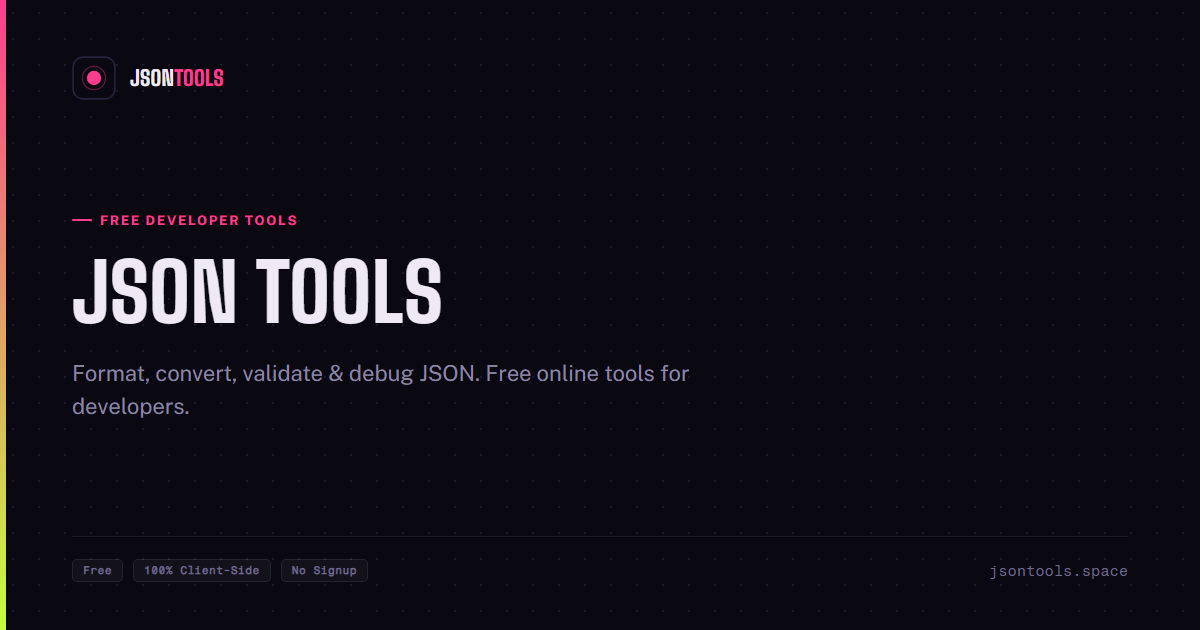
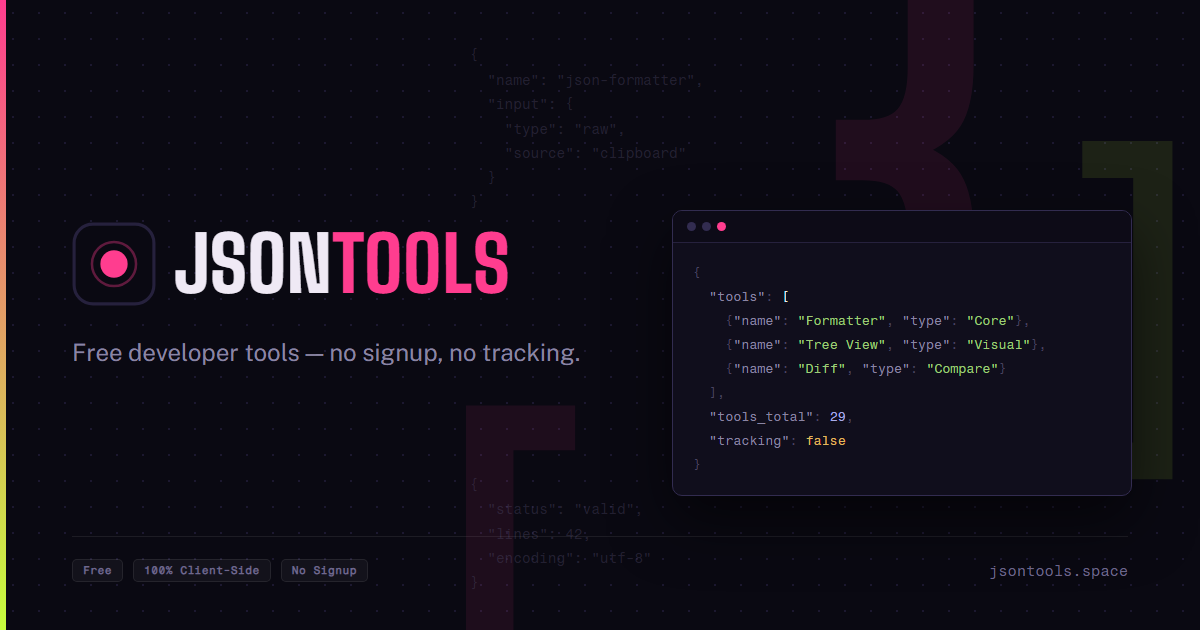
feat: richer flagship OG image with editor mockup + brand identity
Redesigned the default/homepage OG image (public/og/og-image.png),
modeled after a reference composition the user made: a floating
code-editor window with real syntax-highlighted JSON, giant faint
bracket typography as background depth, and JSON snippets as texture.

Applied our own identity throughout: the actual LogoMark, Big
Shoulders / Public Sans / Fragment Mono, the magenta/lime accent
gradient, and the exact syntax-highlight colors our own JsonEditor
uses (--type-str/num/bool) so the mockup matches the real product.

New dedicated template + generator (og-flagship-template.html,
generate-og-flagship.cjs) since this composition doesn't fit the
per-tool data-driven template. Removed the old simple 'og-image'
entry from generate-og.cjs so a future run of the main script can't
clobber this one.

diff --git a/scripts/og-flagship-template.html b/scripts/og-flagship-template.html
@@ -1,0 +1,165 @@
+<!DOCTYPE html>
+<html>
+<head>
+<meta charset="utf-8">
+<link rel="preconnect" href="https://fonts.googleapis.com">
+<link rel="preconnect" href="https://fonts.gstatic.com" crossorigin>
+<link href="https://fonts.googleapis.com/css2?family=Big+Shoulders:wght@500;700;800&family=Public+Sans:ital,wght@0,400;0,500;0,600;0,700;1,500&family=Fragment+Mono:ital@0;1&display=swap" rel="stylesheet">
+<style>
+* { margin: 0; padding: 0; box-sizing: border-box; }
+body {
+  width: 1200px;
+  height: 630px;
+  background: #0A0912;
+  font-family: 'Public Sans', sans-serif;
+  position: relative;
+  overflow: hidden;
+}
+
+.bg-dots {
+  position: absolute;
+  inset: 0;
+  background-image: radial-gradient(circle, #1c1830 1.5px, transparent 1.5px);
+  background-size: 26px 26px;
+}
+
+/* Giant decorative brackets, low-opacity depth layer */
+.deco {
+  position: absolute;
+  font-family: 'Fragment Mono', monospace;
+  font-weight: 700;
+  color: #FF3D8F;
+  line-height: 1;
+  user-select: none;
+}
+.deco-brace  { top: -160px; right: 60px;  font-size: 620px; opacity: 0.09; }
+.deco-bracket-l { bottom: -210px; left: 360px; font-size: 460px; opacity: 0.08; }
+.deco-bracket-r { top: 120px; right: -60px; font-size: 380px; opacity: 0.1; color: #C6FF3D; }
+
+/* Faint scattered JSON text texture */
+.code-scrap {
+  position: absolute;
+  font-family: 'Fragment Mono', monospace;
+  font-size: 14px;
+  line-height: 1.75;
+  color: #4a4460;
+  opacity: 0.4;
+  white-space: pre;
+}
+.code-scrap--tl { top: 44px; left: 470px; }
+.code-scrap--bl { bottom: 34px; left: 470px; }
+
+.accent-bar {
+  position: absolute;
+  left: 0; top: 0;
+  width: 6px; height: 100%;
+  background: linear-gradient(180deg, #FF3D8F 0%, #C6FF3D 100%);
+}
+
+/* Foreground content */
+.stage { position: relative; z-index: 1; height: 100%; display: flex; flex-direction: column; padding: 56px 72px 48px; }
+
+.hero { flex: 1; display: flex; flex-direction: column; justify-content: center; max-width: 620px; }
+.brand-row { display: flex; align-items: center; gap: 18px; margin-bottom: 28px; }
+.logo-mark { flex-shrink: 0; display: block; }
+.title {
+  font-family: 'Big Shoulders', sans-serif;
+  font-size: 76px;
+  font-weight: 800;
+  text-transform: uppercase;
+  color: #EFE9F5;
+  line-height: 1;
+  letter-spacing: 0.005em;
+}
+.title em { font-style: normal; color: #FF3D8F; }
+.subtitle { font-size: 24px; color: #8b85a3; font-weight: 400; line-height: 1.5; }
+
+.footer { display: flex; align-items: center; justify-content: space-between; border-top: 1px solid rgba(255,255,255,0.08); padding-top: 22px; }
+.footer-badges { display: flex; gap: 10px; }
+.badge { font-size: 11px; font-weight: 600; font-family: 'Fragment Mono', monospace; color: #6f688c; background: rgba(255,255,255,0.04); border: 1px solid rgba(255,255,255,0.08); border-radius: 5px; padding: 4px 10px; letter-spacing: 0.04em; }
+.footer-url { font-size: 15px; color: #6f688c; font-family: 'Fragment Mono', monospace; font-weight: 500; }
+
+/* Floating editor window */
+.window {
+  position: absolute;
+  top: 210px;
+  right: 68px;
+  width: 460px;
+  background: #100e1c;
+  border: 1px solid #322c50;
+  border-radius: 10px;
+  box-shadow: 0 24px 60px rgba(0,0,0,0.55);
+  overflow: hidden;
+  z-index: 2;
+}
+.window-bar { display: flex; align-items: center; gap: 6px; padding: 11px 14px; background: #0d0b17; border-bottom: 1px solid #26213d; }
+.window-dot { width: 9px; height: 9px; border-radius: 50%; background: #322c50; }
+.window-dot--accent { background: #FF3D8F; }
+.window-body { padding: 18px 20px; font-family: 'Fragment Mono', monospace; font-size: 13px; line-height: 1.85; color: #EFE9F5; white-space: pre; }
+.k { color: #8b85a3; }
+.s { color: #9FCB78; }
+.n { color: #A9ACE8; }
+.b { color: #E0B75C; }
+.p { color: #4a4460; }
+</style>
+</head>
+<body>
+  <div class="bg-dots"></div>
+  <div class="deco deco-brace">{</div>
+  <div class="deco deco-bracket-l">[</div>
+  <div class="deco deco-bracket-r">]</div>
+  <div class="code-scrap code-scrap--tl">{
+  "name": "json-formatter",
+  "input": {
+    "type": "raw",
+    "source": "clipboard"
+  }
+}</div>
+  <div class="code-scrap code-scrap--bl">{
+  "status": "valid",
+  "lines": 42,
+  "encoding": "utf-8"
+}</div>
+  <div class="accent-bar"></div>
+
+  <div class="stage">
+    <div class="hero">
+      <div class="brand-row">
+        <svg class="logo-mark" width="84" height="84" viewBox="0 0 40 40" xmlns="http://www.w3.org/2000/svg">
+          <rect x="1" y="1" width="38" height="38" rx="9" fill="#0A0912" stroke="#26213D" stroke-width="1.5"/>
+          <circle cx="20" cy="20" r="6.5" fill="#FF3D8F"/>
+          <circle cx="20" cy="20" r="10.5" stroke="#FF3D8F" stroke-width="1.2" opacity="0.35" fill="none"/>
+        </svg>
+        <div class="title">json<em>tools</em></div>
+      </div>
+      <div class="subtitle">Free developer tools — no signup, no tracking.</div>
+    </div>
+
+    <div class="footer">
+      <div class="footer-badges">
+        <span class="badge">Free</span>
+        <span class="badge">100% Client-Side</span>
+        <span class="badge">No Signup</span>
+      </div>
+      <div class="footer-url">jsontools.space</div>
+    </div>
+  </div>
+
+  <div class="window">
+    <div class="window-bar">
+      <span class="window-dot"></span>
+      <span class="window-dot"></span>
+      <span class="window-dot window-dot--accent"></span>
+    </div>
+    <div class="window-body"><span class="p">{</span>
+  <span class="k">"tools"</span><span class="p">:</span> [
+    <span class="p">{</span><span class="k">"name"</span><span class="p">:</span> <span class="s">"Formatter"</span><span class="p">,</span> <span class="k">"type"</span><span class="p">:</span> <span class="s">"Core"</span><span class="p">},</span>
+    <span class="p">{</span><span class="k">"name"</span><span class="p">:</span> <span class="s">"Tree View"</span><span class="p">,</span> <span class="k">"type"</span><span class="p">:</span> <span class="s">"Visual"</span><span class="p">},</span>
+    <span class="p">{</span><span class="k">"name"</span><span class="p">:</span> <span class="s">"Diff"</span><span class="p">,</span> <span class="k">"type"</span><span class="p">:</span> <span class="s">"Compare"</span><span class="p">}</span>
+  <span class="p">],</span>
+  <span class="k">"tools_total"</span><span class="p">:</span> <span class="n">29</span><span class="p">,</span>
+  <span class="k">"tracking"</span><span class="p">:</span> <span class="b">false</span>
+<span class="p">}</span></div>
+  </div>
+</body>
+</html>
